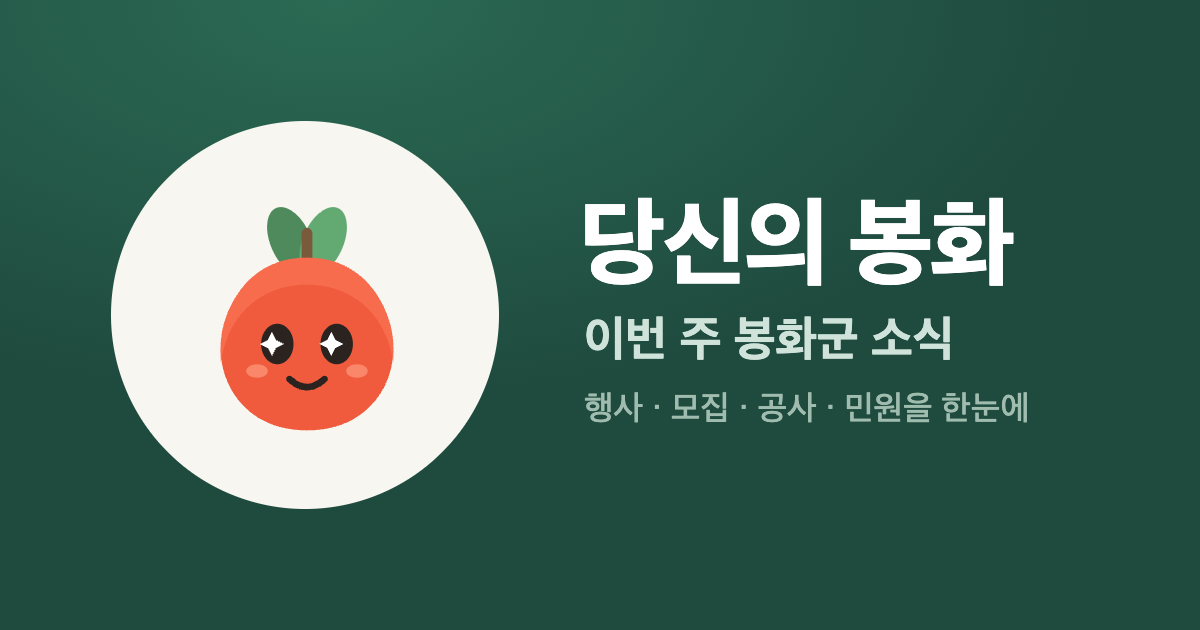
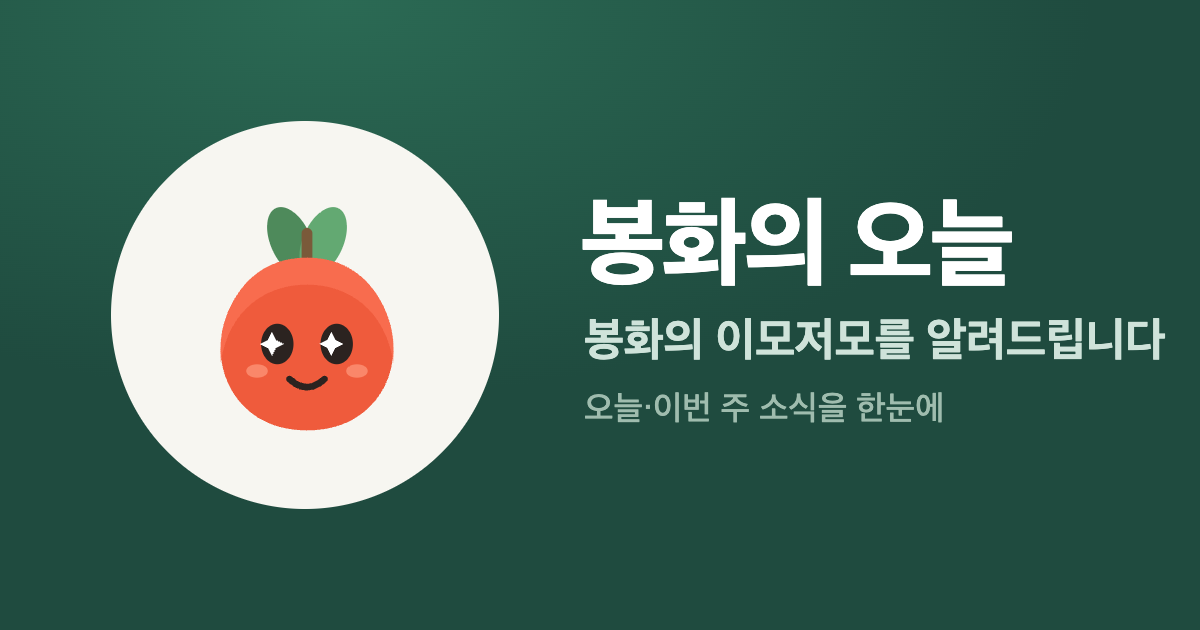
군민용 개편: '봉화의 오늘'로 이름 변경 + 상단 주간 데이 스트립 — 날짜별 진행 소식(오늘 봉화의 소식은?)·헤더 부제·OG 갱신

diff --git a/index.html b/index.html
@@ -4,13 +4,13 @@
 <meta charset="UTF-8">
 <meta name="viewport" content="width=device-width,initial-scale=1,viewport-fit=cover">
 <meta name="theme-color" content="#1F4B3F">
-<title>당신의 봉화</title>
-<meta name="description" content="이번 주 봉화군 소식을 알려드립니다 — 행사·모집·공사·민원을 한눈에">
+<title>봉화의 오늘</title>
+<meta name="description" content="봉화의 이모저모를 알려드립니다 — 오늘·이번 주 행사·모집·공사·민원을 한눈에">
 <!-- 카카오톡·문자·SNS 링크 미리보기(마스코트 카드) -->
 <meta property="og:type" content="website">
-<meta property="og:site_name" content="당신의 봉화">
-<meta property="og:title" content="당신의 봉화">
-<meta property="og:description" content="이번 주 봉화군 소식을 알려드립니다 — 행사·모집·공사·민원을 한눈에">
+<meta property="og:site_name" content="봉화의 오늘">
+<meta property="og:title" content="봉화의 오늘">
+<meta property="og:description" content="봉화의 이모저모를 알려드립니다 — 오늘·이번 주 소식을 한눈에">
 <meta property="og:image" content="https://choyul.github.io/bonghwa-weekly/og.png">
 <meta property="og:image:width" content="1200">
 <meta property="og:image:height" content="630">
@@ -32,7 +32,22 @@ footer a{color:var(--acc);font-weight:700;text-decoration:underline;text-decorat
 .glist dt .gi{font-size:15px}
 .glist dd{margin:0;font-weight:600}
 
-/* ── 접이식 검색 (네이버페이식) — 접힌 바를 누르면 아래로 펼쳐져 기간·키워드 선택 ── */
+/* ── 헤더 부제 ── */
+.bw-sub{width:100%;font-size:13px;font-weight:600;opacity:.9;margin-top:3px}
+
+/* ── 상단 주간 달력 (데이 스트립) + 기간 버튼 ── */
+.wstrip{background:var(--paper);border:1px solid var(--line);border-radius:var(--r);padding:12px 12px 10px;margin-bottom:12px}
+.ws-today{font-size:13.5px;font-weight:700;color:var(--acc);padding:0 2px 2px}
+.ws-scopes{display:flex;gap:6px;margin:10px 0 9px}
+.ws-scopes button{flex:1;min-height:42px;border:1px solid var(--line);border-radius:10px;background:var(--paper);
+ color:var(--ink);font-size:14px;font-weight:600;cursor:pointer;transition:all var(--bh-dur,180ms) var(--bh-ease,ease)}
+.ws-scopes button.on{background:var(--acc);border-color:var(--acc);color:#fff}
+.wstrip .cal{border:none;background:transparent;padding:0;gap:4px}
+.wstrip .calday{position:relative;min-height:62px}
+.ws-dot{position:absolute;top:6px;right:8px;width:6px;height:6px;border-radius:50%;background:var(--gold)}
+.calday.on .ws-dot{background:#fff}
+
+/* ── 접이식 검색 (네이버페이식) — 접힌 바를 누르면 아래로 펼쳐져 키워드 입력 ── */
 .searchbar{display:none}   /* 기본 검색창은 숨기고 아래 카드로 대체 */
 .psearch{border:1px solid var(--line);border-radius:14px;background:var(--paper);
  margin-bottom:12px;overflow:hidden;transition:border-color .2s,box-shadow .2s}
@@ -261,7 +276,7 @@ function init(){
   let when='';
   if(r&&r.start){const s=BW.d2(r.start);when=`${s.getMonth()+1}월 ${s.getDate()}일 · `}
   const text=`[봉화군 이번 주 소식] ${iss.title}\n${when}자세히 보기 👇`;
-  const data={title:'당신의 봉화',text,url};
+  const data={title:'봉화의 오늘',text,url};
   /* 휴대폰은 OS 공유 시트(카카오톡·문자·메일 등)를 띄운다.
      canShare로 가능 여부를 먼저 확인하고, 안 되는 기기(구형·일부 PC)만 링크 복사로 넘어간다. */
   if(navigator.share && (!navigator.canShare || navigator.canShare(data))){
@@ -301,7 +316,7 @@ function init(){
   const intro=document.createElement('div'); intro.id='intro';
   intro.innerHTML=`<div class="ibg"></div>
     <div class="intro-mascot">${MASCOT}</div>
-    <div class="intro-text">안녕하세요<br><b>당신의 봉화</b>에서<br>이번 주 소식을 알려드립니다</div>
+    <div class="intro-text">안녕하세요<br><b>봉화의 오늘</b>이<br>이번 주 소식을 알려드립니다</div>
     <div class="intro-sub">봉화군 주간 소식 · ${D.weekStart} 기준</div>
     <button class="intro-btn" id="introGo">시작하기</button>`;
   document.body.appendChild(intro);
@@ -342,17 +357,17 @@ function init(){
  }
 
  BWUI.start({
-  role:'public', title:'당신의 봉화',
+  role:'public', title:'봉화의 오늘',
   searchPlaceholder:'궁금한 일을 검색해 보세요 (예: 축제, 도로, 교육)',
-  listTitle:'봉화군에서는?',   /* 앞에 '이번 주' / '7월 28일(화)' 처럼 기간이 붙는다 */
+  listTitle:'봉화의 소식은?',   /* 앞에 '오늘' / '이번 주' / '7월 28일(화)' 처럼 기간이 붙는다 */
   publicLabels:true,
   progAsStage:true,
   showAppearance:false,      /* 등장 기준 추정치는 내보내지 않음 (§8.2) */
   showSimilar:false,
   showHistory:false,
-  hideTiles:true,            /* '언제'는 아래 접이식 검색의 기간 선택이 맡는다 */
-  showCalendar:false,        /* 달력 대신 검색바 안의 기간 버튼(이번 주·이번 달·전체)으로 대체 */
-  onRender(){ syncSearchCard(); },   /* 필터가 바뀔 때마다 검색카드 상태를 맞춘다 */
+  hideTiles:true,            /* '언제'는 상단 주간 달력이 맡는다 */
+  showCalendar:false,        /* 공용 월 달력 대신 위쪽 커스텀 주간 데이 스트립을 쓴다 */
+  onRender(){ syncTopControls(); },   /* 필터가 바뀔 때마다 상단 달력·검색·제목을 맞춘다 */
   hideDeptTag:true,          /* 군민은 어느 과인지로 고르지 않는다 — 문의할 때만 필요 */
   /* 카드 태그도 위 '주제' 축과 같은 분류를 쓴다 */
   typeTag:iss=>({v:tag(iss).topics[0], label:tag(iss).topics[0], axis:'topic'}),
@@ -475,10 +490,19 @@ function init(){
   }
  });
 
- /* ── 접이식 검색 카드 (네이버페이식) ──
-    접힌 바 → 탭 → 아래로 펼쳐져 키워드 + 기간(이번 주·이번 달·전체) 선택 → 조회.
-    달력을 없앤 대신 '언제'를 여기 기간 버튼이 맡는다. */
+ /* ── 헤더 부제 ── */
+ function decorateHeader(){
+  const inb=document.querySelector('.bw-head .in'); if(!inb||inb.querySelector('.bw-sub'))return;
+  const sub=document.createElement('div'); sub.className='bw-sub'; sub.textContent='봉화의 이모저모를 알려드립니다';
+  inb.insertBefore(sub, inb.querySelector('.wk')||null);
+ }
+
+ /* ── 상단 주간 달력 (Senso식 데이 스트립) + 기간 버튼 ──
+    이번 주 7일을 요일·날짜로 늘어놓고, 날짜를 누르면 그날 '진행 중'(진행기간 포함)인
+    소식만 본다 → "오늘 봉화의 소식은?". 기간 버튼으로 이번 주·이번 달·전체도 고른다. */
  const WEEK_MONTH=D.weekStart.slice(0,7);
+ const WSTART=BW.d2(D.weekStart);
+ const WEEKDAYS=[]; for(let i=0;i<7;i++){ const d=new Date(WSTART); d.setDate(WSTART.getDate()+i); WEEKDAYS.push(BW.ymd(d)); }
  function setScope(sc){
   const S=BWUI.api.state;
   if(sc==='month'){ S.scope='month'; S.month=WEEK_MONTH; S.day=''; }
@@ -486,13 +510,35 @@ function init(){
   else { S.scope='week'; S.month=WEEK_MONTH; S.day=''; }
   S.limit=60; BWUI.api.render();
  }
+ function setDay(day){ const S=BWUI.api.state; S.scope='day'; S.day=day; S.month=day.slice(0,7); S.limit=60; BWUI.api.render(); }
+
+ function buildDayStrip(){
+  const wrap=document.querySelector('.bw-wrap'); if(!wrap||document.getElementById('wstrip'))return;
+  const today=BWUI.api.today, td=BW.d2(today);
+  const cntOf=day=>BWUI.api.issues.filter(i=>i.list.some(o=>BW.coversDate(o.item,o.week,day))).length;
+  const box=document.createElement('div'); box.id='wstrip'; box.className='wstrip';
+  box.innerHTML=`
+    <div class="ws-today">📅 오늘 · ${td.getMonth()+1}월 ${td.getDate()}일 (${BW.DOW[td.getDay()]})</div>
+    <div class="ws-scopes" id="wsScopes">
+      <button type="button" data-sc="week">이번 주</button>
+      <button type="button" data-sc="month">이번 달</button>
+      <button type="button" data-sc="all">전체 기간</button>
+    </div>
+    <div class="cal ws-days" id="wsDays">
+      ${WEEKDAYS.map(day=>{const d=BW.d2(day);const we=d.getDay()===0||d.getDay()===6;const n=cntOf(day);
+        return `<button type="button" class="calday ${we?'we':''} ${n?'':'zero'}" data-day="${day}">
+          <span class="dow">${BW.DOW[d.getDay()]}</span><span class="d">${d.getDate()}</span><span class="cnt">${n}</span>
+          ${day===today?'<span class="ws-dot"></span>':''}</button>`;}).join('')}
+    </div>`;
+  wrap.insertBefore(box,wrap.firstChild);
+  box.querySelectorAll('#wsScopes button').forEach(b=>b.onclick=()=>setScope(b.dataset.sc));
+  box.querySelectorAll('.calday').forEach(b=>b.onclick=()=>setDay(b.dataset.day));
+ }
+
+ /* 키워드 검색 (접이식) — 기간은 위 달력이 맡으므로 여기선 검색어만 */
  function syncSearchCard(){
   const card=document.getElementById('psearch'); if(!card)return;
-  const S=BWUI.api.state;
-  const sc=S.scope==='month'?'month':(S.scope==='week'?'week':'all');
-  card.querySelectorAll('#psScopes button').forEach(b=>b.classList.toggle('on',b.dataset.sc===sc));
-  card.querySelector('#psPill').textContent=sc==='month'?'이번 달':sc==='all'?'전체 기간':'이번 주';
-  const text=card.querySelector('#psText');
+  const S=BWUI.api.state, text=card.querySelector('#psText');
   if(S.q){ text.textContent='“'+S.q+'”'; text.classList.add('has'); }
   else { text.textContent='궁금한 일을 검색해 보세요 (축제, 도로, 교육)'; text.classList.remove('has'); }
   const input=card.querySelector('#psInput');
@@ -505,19 +551,12 @@ function init(){
     <button type="button" class="ps-bar" id="psBar">
       <svg class="ps-mag" viewBox="0 0 24 24" fill="none" stroke="currentColor" stroke-width="1.8" stroke-linecap="round" stroke-linejoin="round"><circle cx="11" cy="11" r="7"/><path d="m21 21-4.3-4.3"/></svg>
       <span class="ps-text" id="psText">궁금한 일을 검색해 보세요 (축제, 도로, 교육)</span>
-      <span class="ps-pill" id="psPill">이번 주</span>
     </button>
     <div class="ps-panel" id="psPanel">
       <input type="search" class="ps-input" id="psInput" enterkeyhint="search" placeholder="궁금한 일을 검색해 보세요 (축제, 도로, 교육)">
-      <div class="ps-lab">검색 기간</div>
-      <div class="ps-scopes" id="psScopes">
-        <button type="button" data-sc="week">이번 주</button>
-        <button type="button" data-sc="month">이번 달</button>
-        <button type="button" data-sc="all">전체 기간</button>
-      </div>
       <div class="ps-actions">
-        <button type="button" class="ps-reset" id="psReset">초기화</button>
-        <button type="button" class="ps-go" id="psGo">조회하기</button>
+        <button type="button" class="ps-reset" id="psReset">지우기</button>
+        <button type="button" class="ps-go" id="psGo">검색</button>
       </div>
     </div>`;
   wrap.insertBefore(card,wrap.firstChild);
@@ -526,12 +565,35 @@ function init(){
   card.querySelector('#psBar').onclick=()=>setOpen(!card.classList.contains('open'));
   let t; input.oninput=()=>{ clearTimeout(t); t=setTimeout(()=>{ S.q=input.value.trim(); S.limit=60; BWUI.api.render(); },180); };
   input.onkeydown=e=>{ if(e.key==='Enter'){ e.preventDefault(); clearTimeout(t); S.q=input.value.trim(); BWUI.api.render(); setOpen(false); } };
-  card.querySelectorAll('#psScopes button').forEach(b=>b.onclick=()=>setScope(b.dataset.sc));
   card.querySelector('#psGo').onclick=()=>{ clearTimeout(t); S.q=input.value.trim(); BWUI.api.render(); setOpen(false); };
-  card.querySelector('#psReset').onclick=()=>{ input.value=''; S.q=''; setScope('week'); };
+  card.querySelector('#psReset').onclick=()=>{ input.value=''; S.q=''; S.limit=60; BWUI.api.render(); };
   syncSearchCard();
  }
+
+ /* 필터가 바뀔 때마다 상단(달력·검색·목록 제목)을 실제 상태에 맞춘다 */
+ function syncTopControls(){
+  const S=BWUI.api.state, strip=document.getElementById('wstrip');
+  if(strip){
+   strip.querySelectorAll('#wsScopes button').forEach(b=>b.classList.toggle('on',b.dataset.sc===S.scope));
+   strip.querySelectorAll('.calday').forEach(b=>b.classList.toggle('on',S.scope==='day'&&b.dataset.day===S.day));
+  }
+  syncSearchCard();
+  const listh=document.querySelector('#bwInfo .listh');
+  if(listh){
+   let t;
+   if(S.scope==='day') t=(S.day===BWUI.api.today?'오늘':(()=>{const d=BW.d2(S.day);return `${d.getMonth()+1}월 ${d.getDate()}일(${BW.DOW[d.getDay()]})`;})())+' 봉화의 소식은?';
+   else if(S.scope==='month'){const[y,m]=S.month.split('-');t=`${+y}년 ${+m}월 봉화의 소식은?`;}
+   else if(S.scope==='all') t='전체 봉화의 소식은?';
+   else t='이번 주 봉화의 소식은?';
+   listh.textContent=t;
+  }
+ }
+
+ decorateHeader();
  buildSearchCard();
+ buildDayStrip();               /* 마지막에 넣어 맨 위에 오게 한다 */
+ /* 기본: 오늘이 이번 자료 주간이면 '오늘 소식'부터, 아니면 이번 주 전체 */
+ if(WEEKDAYS.includes(BWUI.api.today)) setDay(BWUI.api.today); else setScope('week');
 
  /* 링크로 들어온 경우 처리 — 인트로를 건너뛰고 해당 안건으로 바로 간다.
     코드는 짧은 해시(i·r)를 쓰되, 예전 긴 링크(item·remind, 전체 안건번호)도 계속 열리게 둔다. */
